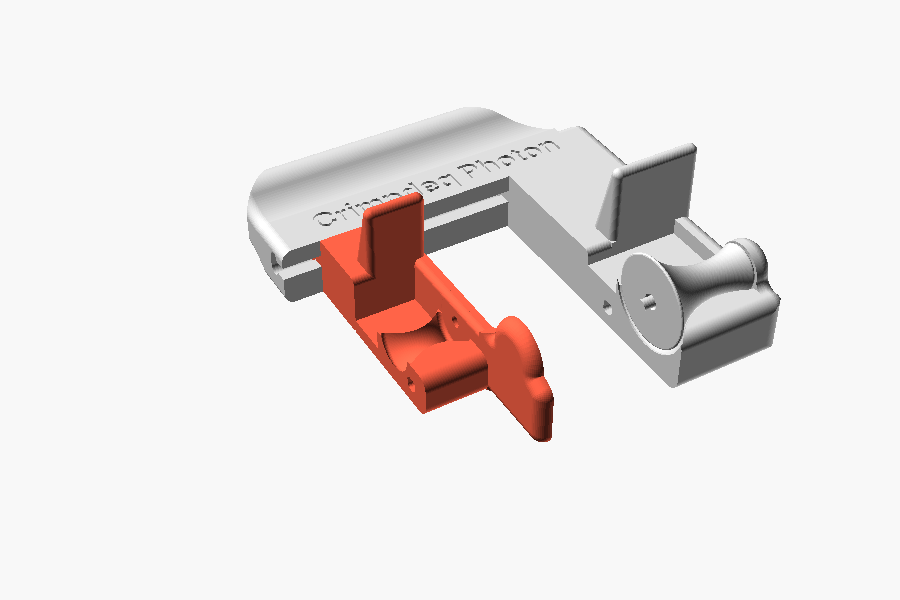
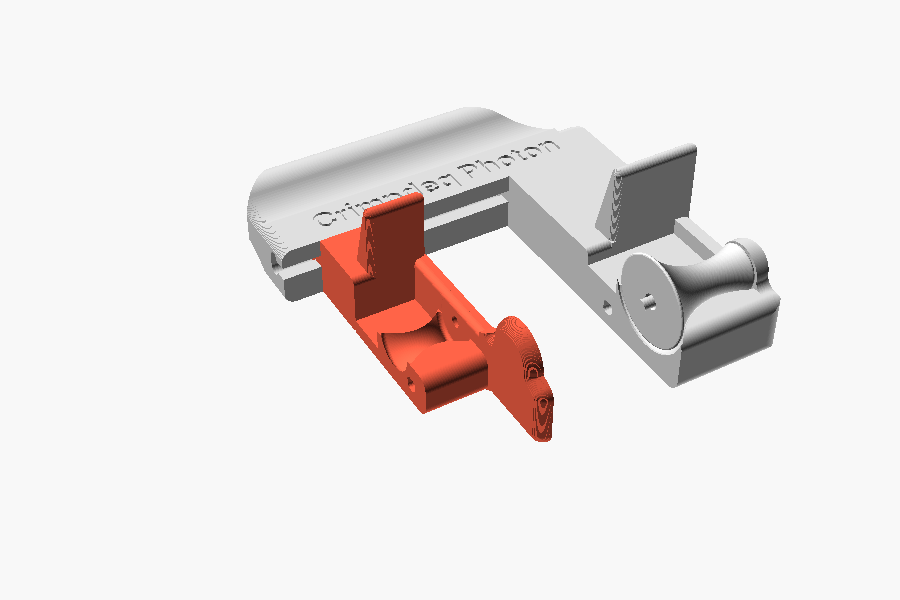
perf: round edges with offset layers instead of minkowski()
minkowski() of non-convex solids needs CGAL, which fails in WebAssembly OpenSCAD and falls back to Nef (13 minutes for one Spark wall). along_x_ball_swept() builds the same ball-swept extrusions from offset profiles in 0.2 mm layers: every part renders in seconds there, native exports get faster, and check_step.py stays within its limits.

diff --git a/docs/src/development.md b/docs/src/development.md
@@ -63,8 +63,8 @@ CI runs these on every pull request:
 
 - `uv run scripts/check_step.py` exports each part at the STEP's own values and compares it with
   the STEP solid, read from git history (needs a full clone) and tessellated with OpenCascade.
-  Every part is within 0.5% of the STEP volume and within 0.1 mm of its surface at the 95th
-  percentile, except the Photon end wall (0.23 mm) because of its engraving. It fails beyond
+  Every part is within 0.5% of the STEP volume and within about 0.1 mm of its surface at the 95th
+  percentile, except the Photon end wall (0.2 mm) because of its engraving. It fails beyond
   1% or 0.6 mm.
 - `python3 scripts/check_stl.py` on the exports of both grips for both hands: each STL is one
   closed body resting on z = 0.

diff --git a/AGENTS.md b/AGENTS.md
@@ -67,6 +67,8 @@ rerun them.
   meet faces tangentially: `check_step.py` drops zero-volume fragments before comparing, and
   `check_stl.py` accepts edges shared four or six times (never an odd count).
 - `render()` wraps every part: without it OpenCSG previews of the frame come out empty.
+- No `minkowski()` of non-convex solids: it needs CGAL, which fails in WebAssembly and falls back
+  to minutes per part on the measuring page. Round with `along_x_ball_swept` (offset layers).
 
 ## Verify after changes
 
